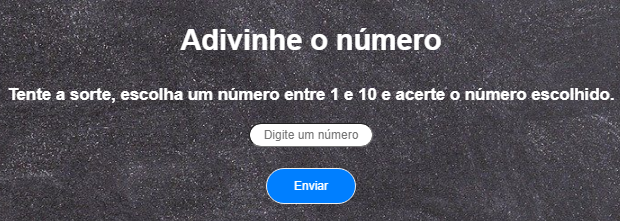
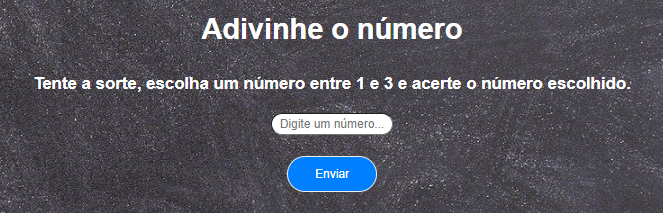
Update project

diff --git a/templates/home.html b/templates/home.html
@@ -1,5 +1,5 @@
 <!DOCTYPE html>
-<html lang="en">
+<html lang="pt">
 <head>
     <meta charset="UTF-8">
     <title>Game Adivinhe</title>
@@ -9,7 +9,7 @@
 <body>
 <center>
     <h1>Adivinhe o número</h1>
-    <h3>Tente a sorte, escolha um número entre 1 e 10 e acerte o número escolhido.</h3>
+    <h3>Tente a sorte, escolha um número entre 1 e 3 e acerte o número escolhido.</h3>
   <form action="{{ url_for('home') }}" method="POST">
     <input type="text" name="valor" placeholder="Digite um número..." align=""><br><br>
     <a class="btn btn-primary"><button>Enviar</button></a>

diff --git a/templates/acertou.html b/templates/acertou.html
@@ -1,5 +1,5 @@
 <!DOCTYPE html>
-<html lang="en">
+<html lang="pt">
 <head>
     <meta charset="UTF-8">
     <title>Adivinhe</title>

diff --git a/templates/errou.html b/templates/errou.html
@@ -1,5 +1,5 @@
 <!DOCTYPE html>
-<html lang="en">
+<html lang="pt">
 <head>
     <meta charset="UTF-8">
     <title>Adivinhe</title>

diff --git a/adivinhe.py b/adivinhe.py
@@ -9,7 +9,7 @@ def home():
     while True:
         try:
             primeiro_valor = 1  # Valor inicial, alterável
-            ultimo_valor = 10  # Valor final, alterável
+            ultimo_valor = 3  # Valor final, alterável
             if request.method == 'GET':
                 return render_template('home.html')  # Página inicial
             else:
@@ -24,6 +24,6 @@ def home():
         except ValueError:
             return render_template('home.html')  # Página inicial
 
-
+# Manter o app rodando
 if __name__ == '__main__':
     app.run(debug=True)
